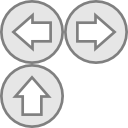
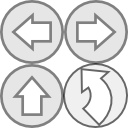
draw rotate controls in screen

Changed region(s): [[0.4688, 0.4688, 1.0, 1.0]]

diff --git a/goingnowhere/src/com/goingnowhere/WorldRenderer.java b/goingnowhere/src/com/goingnowhere/WorldRenderer.java
@@ -31,6 +31,8 @@ public class WorldRenderer {
 	Sprite controlLeft;
 	Sprite controlRight;
 	Sprite controlUp;
+	Sprite controlRotateRight;
+	Sprite controlRotateLeft;
 	BitmapFont font;
 	
 	public WorldRenderer (World world) {
@@ -50,6 +52,10 @@ public class WorldRenderer {
 		controlLeft= new Sprite(controls,0,0,64,64);
 		controlRight= new Sprite(controls,64,0,64,64);
 		controlUp= new Sprite(controls,0,64,64,64);
+		controlRotateRight= new Sprite(controls,64,64,64,64);
+		controlRotateLeft= new Sprite(controls,64,64,64,64);
+		controlRotateLeft.flip(true,false);
+		
 		
 		font = new BitmapFont();
 	    font.setColor(1024,0,0,128);
@@ -94,6 +100,8 @@ public class WorldRenderer {
 	      batch.draw(controlLeft, cam.position.x-180,cam.position.y-120);
 	      batch.draw(controlRight, cam.position.x-90,cam.position.y-120);
 	      batch.draw(controlUp, cam.position.x+120,cam.position.y-120);
+	      batch.draw(controlRotateLeft, cam.position.x+120,cam.position.y+50);
+	      batch.draw(controlRotateRight, cam.position.x-180,cam.position.y+50);
 	      batch.end();
 	}
 }
